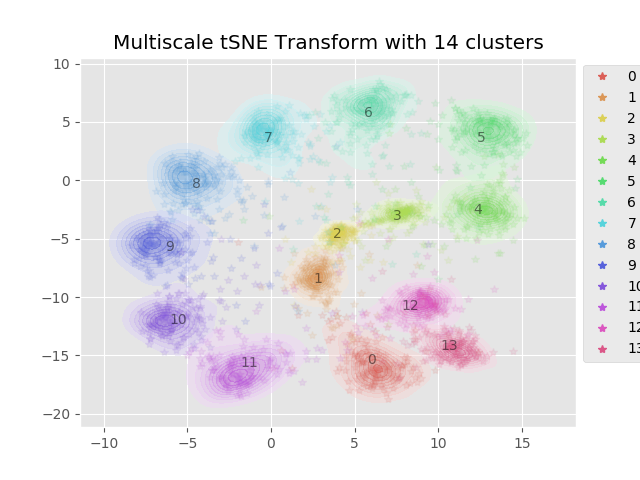
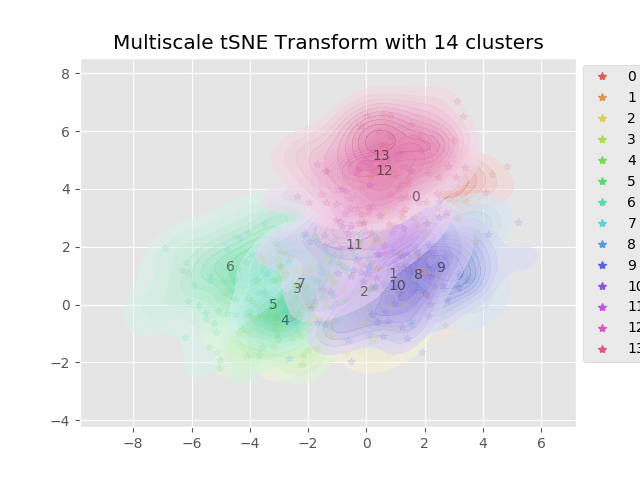
Try to use multiple betas in the loss function and sum them; fail. Think my value for y_true has to be the same shape as Q_

diff --git a/parametric_tSNE/core.py b/parametric_tSNE/core.py
@@ -58,15 +58,16 @@ def _make_P_np(input, betas):
         Gaussian kernel(s) used for each point.
     Returns
     -------
-    P : nd array_like, (N,N)
+    P : nd array_like, (N, N, P)
         Symmetric similarity probability matrix
-        Average across beta values
+        Beta-values across third dimension
     """
     P_ji = _make_P_ji(input, betas)
     P_3 = np.zeros_like(P_ji)
     for zz in range(P_3.shape[2]):
         P_3[:, :, zz] = _get_normed_sym_np(P_ji[:, :, zz])
     P_ = P_3.mean(axis=2, keepdims=False)
+    #P_ = P_3
     return P_
     
     
@@ -185,16 +186,17 @@ def kl_loss(y_true, y_pred, alpha=1.0, batch_size=None, _eps=DEFAULT_EPS):
     between the "true" output and the "predicted" output
     Parameters
     ----------
-    y_true : 2d array_like (N,N)
+    y_true : 2d or 3d array_like (N, N, P)
         Should be the P matrix calculated from input data.
         Differences in input points using a Gaussian probability distribution
+        2d arrays imply P = 1
     y_pred : 2d array_like (N, output_dims)
         Output of the neural network. We will calculate
         the Q matrix based on this output
     alpha : float, optional
         Parameter used to calculate Q. Default 1.0
     batch_size : int, required
-        Number of samples per batch. P_.shape[0]
+        Number of samples per batch. y_true.shape[0]
     Returns
     -------
     kl_loss : tf.Tensor, scalar value
@@ -206,10 +208,17 @@ def kl_loss(y_true, y_pred, alpha=1.0, batch_size=None, _eps=DEFAULT_EPS):
     
     _tf_eps = tf.constant(_eps, dtype=P_.dtype)
     
-    kl_matr = tf.multiply(P_, tf.log(P_ + _tf_eps) - tf.log(Q_ + _tf_eps), name='kl_matr')
+    #kls_per_beta = []
+    #for zz in range(P_.shape[2]):
+        #cur_beta_P = P_[:,:, zz]
+    cur_beta_P = P_
+    kl_matr = tf.multiply(cur_beta_P, tf.log(cur_beta_P + _tf_eps) - tf.log(Q_ + _tf_eps), name='kl_matr')
     toset = tf.constant(0, shape=[batch_size], dtype=kl_matr.dtype)
     kl_matr_keep = tf.matrix_set_diag(kl_matr, toset)
-    kl_total_cost = tf.reduce_sum(kl_matr_keep)
+    kl_total_cost_cur_beta = tf.reduce_sum(kl_matr_keep)
+    #kls_per_beta.append(kl_total_cost_cur_beta)
+    #kl_total_cost = tf.add_n(kls_per_beta)
+    kl_total_cost = kl_total_cost_cur_beta
     
     return kl_total_cost
     
@@ -436,7 +445,7 @@ class Parametric_tSNE(object):
         -------
         cur_dat : 2d array_like (batch_size, D)
             Slice of `training_data`
-        P_array : 3d array_like (batch_size, batch_size)
+        P_array : 3d array_like (batch_size, batch_size, P)
             Probability matrix between points
             This is what we use as our "true" value in the KL loss function
         """

diff --git a/example/example_viz_parametric_tSNE.py b/example/example_viz_parametric_tSNE.py
@@ -82,13 +82,14 @@ if __name__ == "__main__":
     plot_pca = has_sklearn
     color_palette = sns.color_palette("hls", num_clusters)
     
-    debug = False
+    debug = True
     if debug:
         model_label = 'debug'
         num_samps = 400
         do_pretrain = False
         epochs = 5
         plot_pca = False
+        override = True
     
     num_outputs = 2
     
